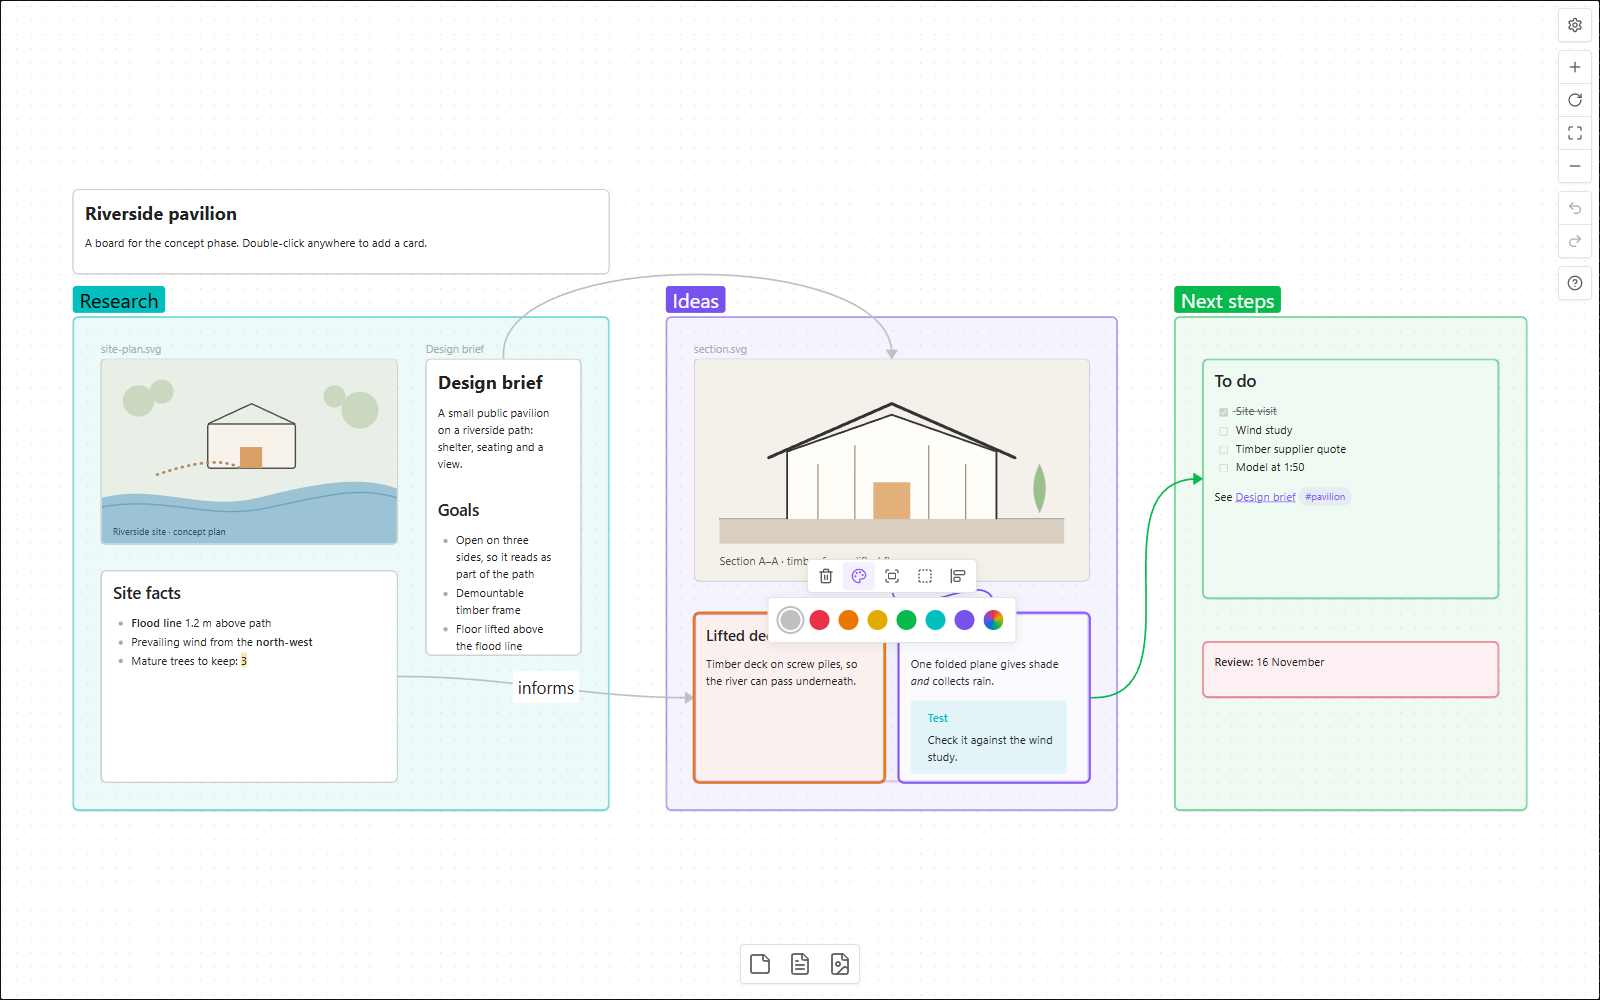
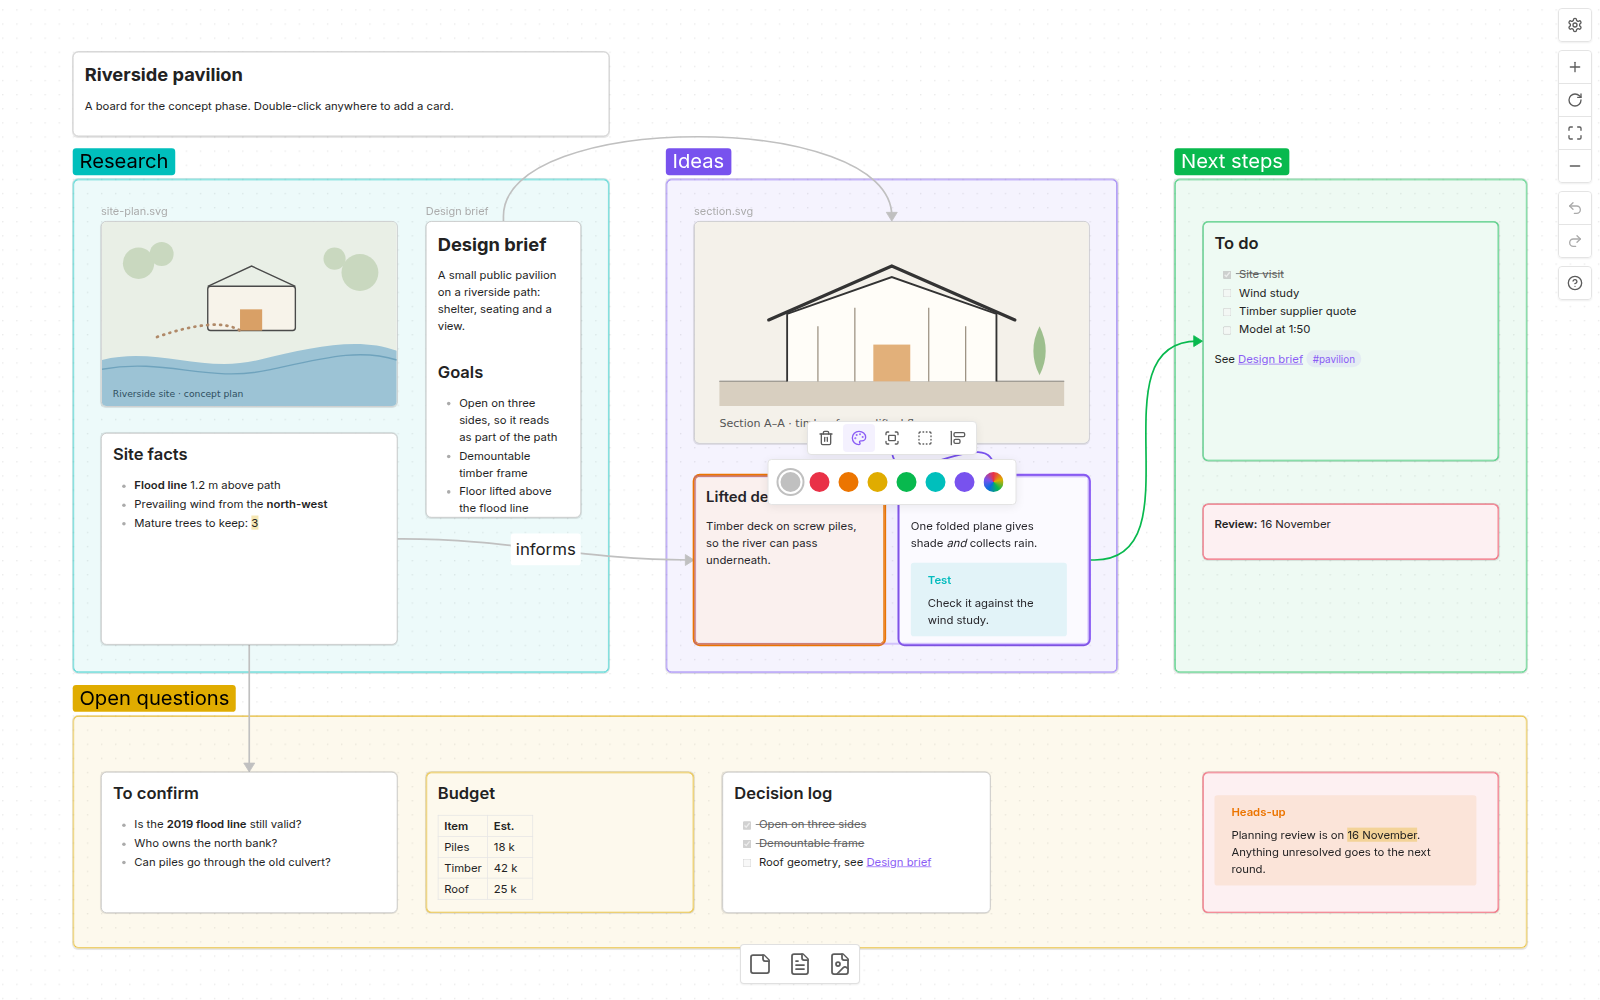
Refresh marketplace listing for 1.0.1: new cover and screenshots, larger demo board, README and changelog

diff --git a/README.md b/README.md
@@ -1,26 +1,39 @@
 # JSON Canvas for Orca
 
-View and edit Obsidian-compatible `.canvas` boards inside Orca. Requires Orca 1.4.246 or later.
+Open, read and edit Obsidian-compatible `.canvas` boards inside Orca. Cards, notes, images, groups
+and connections look, navigate and save like they do in Obsidian, so a board keeps working in
+both tools. Requires Orca 1.4.246 or later.
 
-![JSON Canvas showing a demo board with notes, images, groups and connections](images/cover.png)
+![JSON Canvas showing a demo board with notes, images, groups, a table and connections](images/cover.png)
+
+| | |
+| --- | --- |
+| ![Editing a card with live Markdown preview and a note suggestion popup](images/editing.png) | ![Dragging a new connection between two cards](images/connecting.png) |
+| Live Markdown preview and `[[note]]` suggestions | Drag from an edge dot to connect cards |
+| ![Selecting cards and choosing a color, in light mode](images/light-selection.png) | ![Adding a note from the vault with the note picker](images/note-picker.png) |
+| Light and dark, matching Orca's theme | Add notes and media from your vault |
 
 ## Install
 
-Find **JSON Canvas** by **MolanoJF** in Orca's community plugin marketplace, install it, and
-approve its trusted worker. Open a `.canvas` file and choose the **Canvas** view beside **Source**.
+1. In Orca, open **Settings → Plugins** and find **JSON Canvas** by **MolanoJF** in the community
+   marketplace.
+2. Install it and approve its trusted worker (see *Permissions* below).
+3. Open any `.canvas` file and choose the **Canvas** view beside **Source**.
 
-The worker runs with your user account's access to the machine. It reads workspace information
-and its own settings, resolves local images and notes, and can write Markdown notes you edit
-inline. There is no telemetry. See **How it works** below for vault selection.
+The raw JSON always stays available in the **Source** tab.
+
+## Permissions and privacy
+
+The worker is a small Node process that runs with your user account's access to the machine, which
+is why Orca asks you to approve it. It reads workspace information and its own settings, resolves
+local images and notes, and writes only the Markdown notes you edit inline, and only inside a
+known vault. The editor frame is sandboxed (no file system, no network). There is no telemetry.
 
 This is an independent project, not affiliated with or endorsed by Obsidian.
 
-Opens Obsidian `.canvas` (JSON Canvas) files in an Orca editor tab that looks, navigates and edits
-like Obsidian's canvas. Files are saved in Obsidian's own format (tab-indented, one card per line,
-same key order), to keep diffs small when moving between editors.
-
-**Saving:** edits mark the Orca tab as modified; press **Ctrl+S** to write the file (Orca does not
-let plugins save on their own). The raw JSON stays available in Orca's **Source** tab.
+**Saving:** edits mark the Orca tab as modified; press **Ctrl+S** (Cmd+S on macOS) to write the
+file. Orca does not let plugins save on their own. Files are written in Obsidian's own format
+(tab-indented, one card per line, same key order) to keep diffs small when moving between editors.
 
 ## Editing (as in Obsidian)
 
@@ -84,6 +97,10 @@ alongside the code.
 
 To preview the included demo without installing the plugin:
 
+```bash
+VAULT="$PWD/dev/demo" ORCA_CLI="$(command -v orca)" node dev/harness.mjs dev/demo/demo.canvas 5179
+```
+
 ```powershell
 $env:VAULT = (Resolve-Path dev/demo).Path
 $env:ORCA_CLI = (Get-Command orca).Source
@@ -101,3 +118,15 @@ npx esbuild entry.js --bundle --format=esm --minify --outfile=../../editor/vendo
 
 Validate before releasing with `orca plugin validate . --json`. Releases are version tags
 matching `orca-plugin.json`; the `orca-plugin` repository topic enables marketplace discovery.
+
+Run the tests with `npm test`.
+
+## Feedback
+
+Bug reports and feature requests are welcome in
+[GitHub issues](https://github.com/MolanoJF/orca-json-canvas/issues). For rendering bugs, attach
+the `.canvas` file (or a trimmed copy) and your Orca version.
+
+## License
+
+MIT. See [LICENSE](LICENSE); bundled third-party notices are in `editor/`.

diff --git a/CHANGELOG.md b/CHANGELOG.md
@@ -1,0 +1,13 @@
+# Changelog
+
+## 1.0.1
+
+- Refreshed marketplace listing: new cover and four distinct screenshots (editing, connecting,
+  light mode, note picker), clearer captions and alt text.
+- Larger demo board (adds a table, a callout and a decision log) used for the screenshots.
+- README rewritten for users first; development steps now cover bash as well as PowerShell.
+- No code changes to the editor or worker.
+
+## 1.0.0
+
+- First release: view and edit Obsidian-compatible `.canvas` files in Orca.
